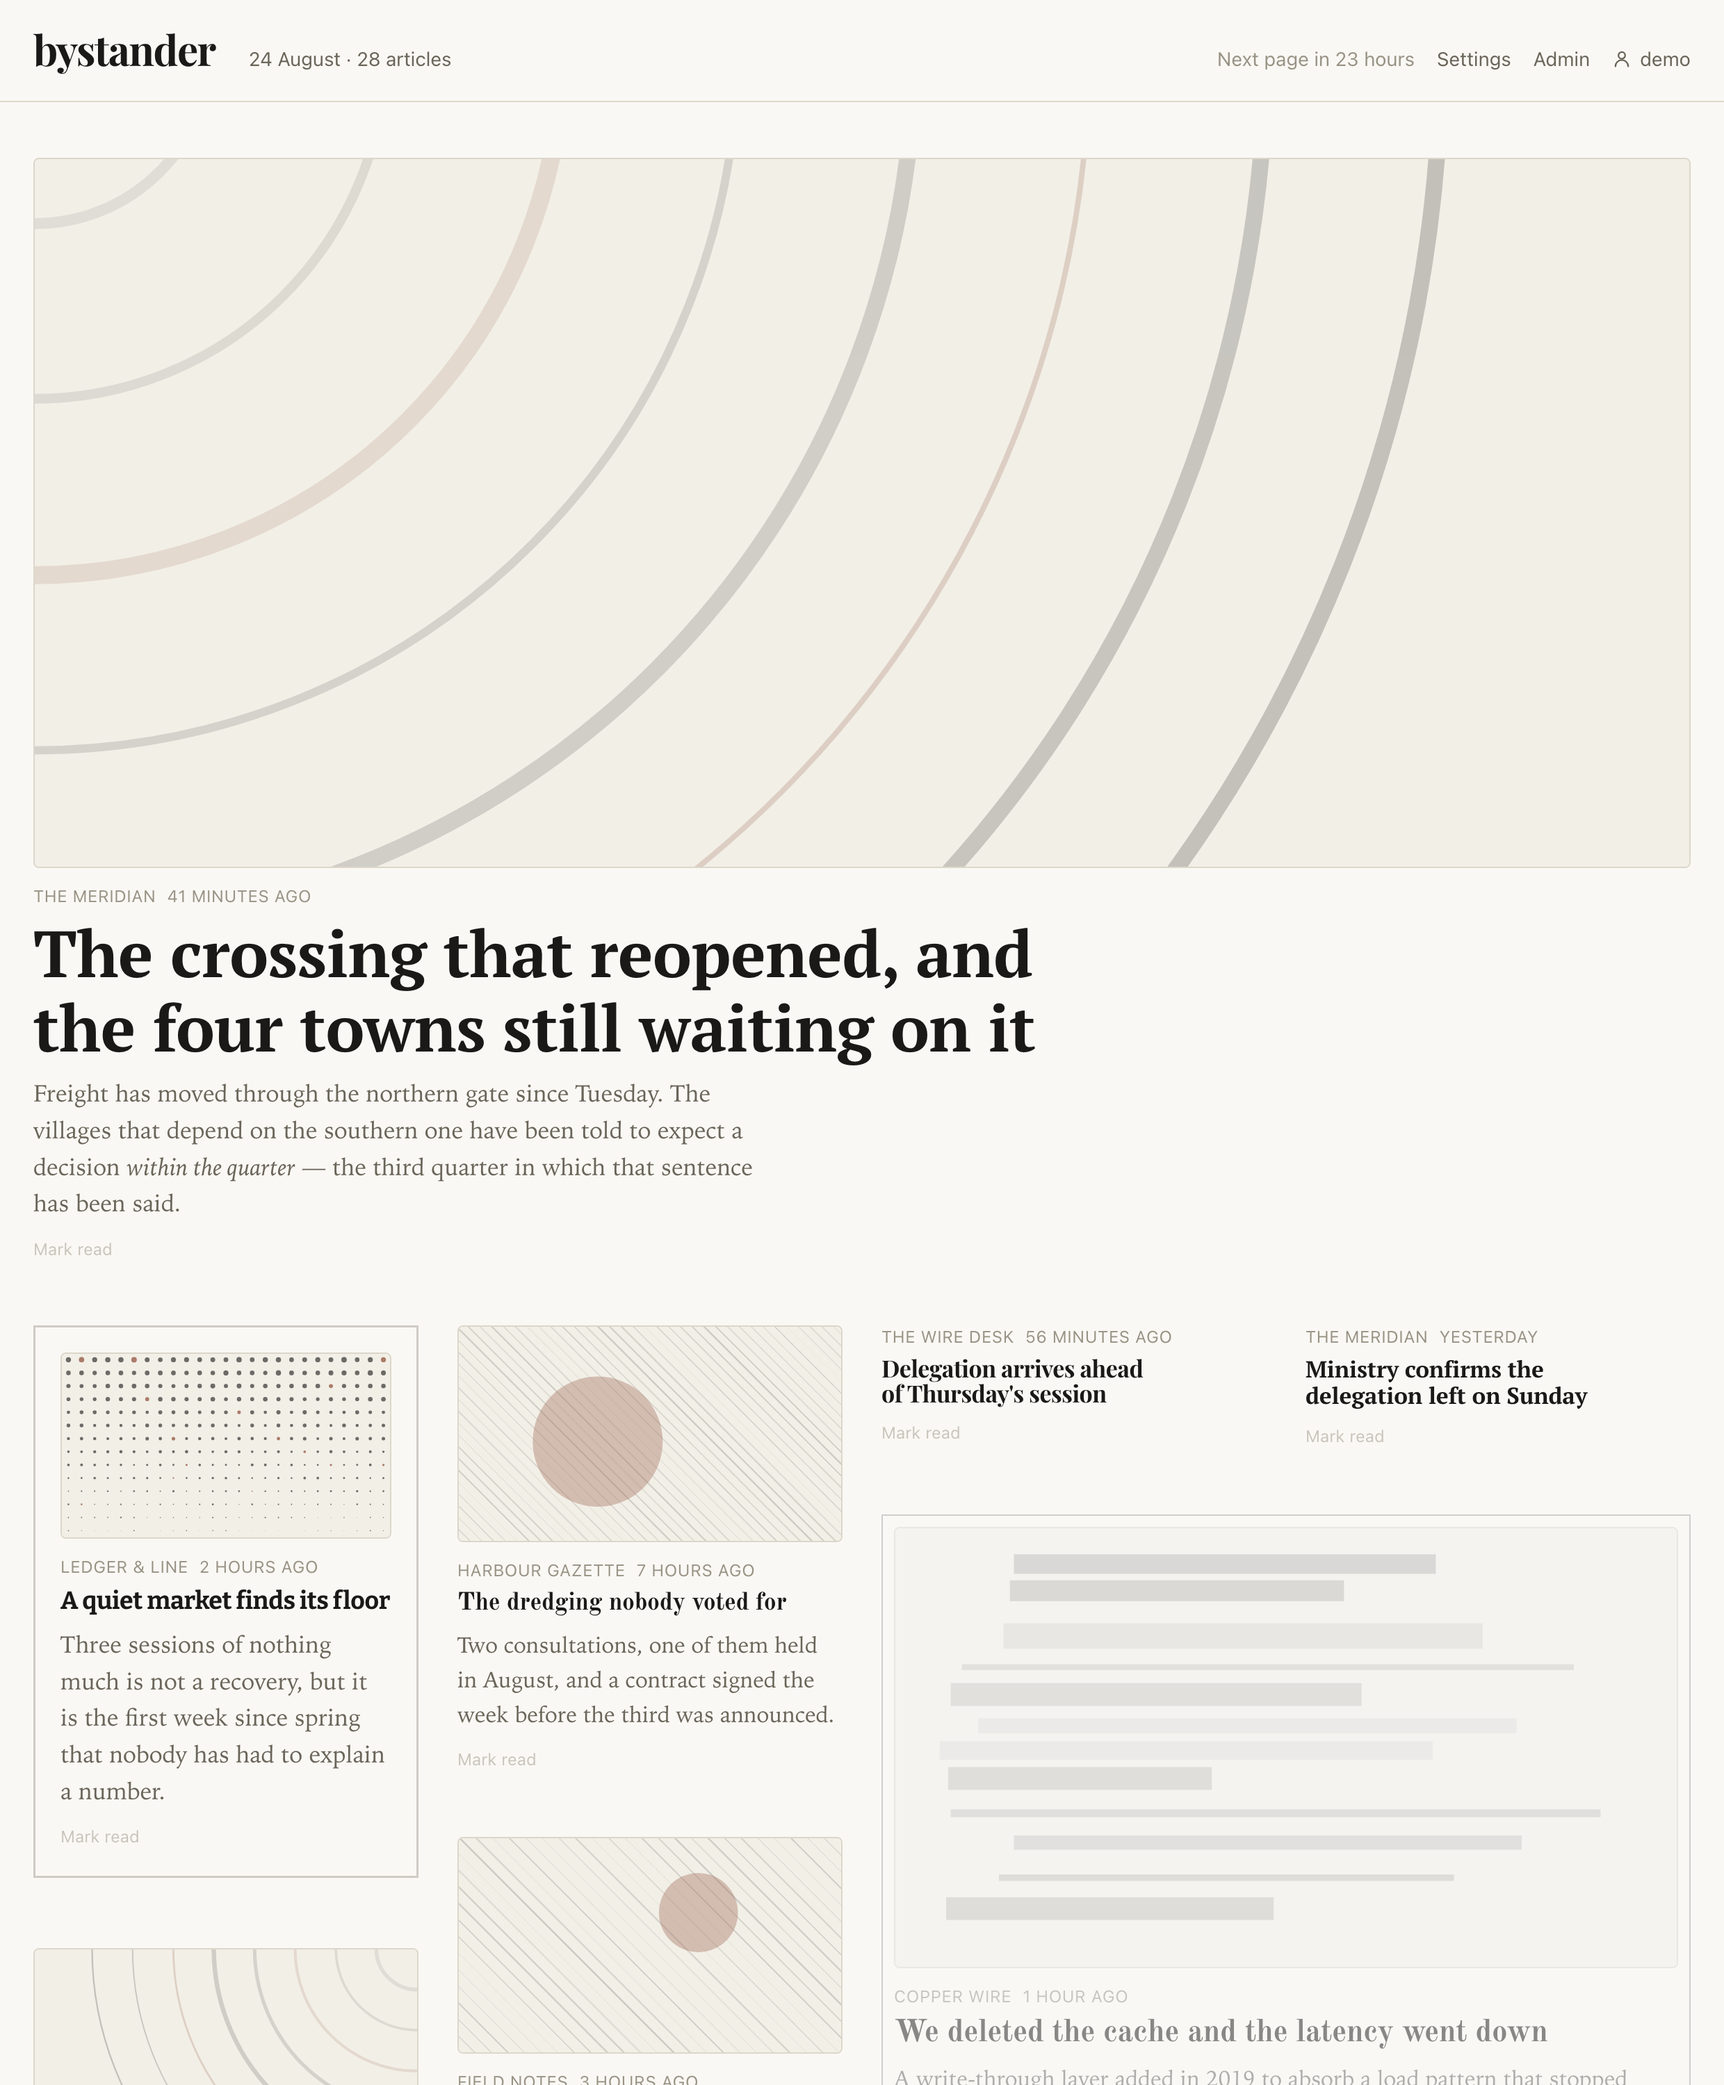
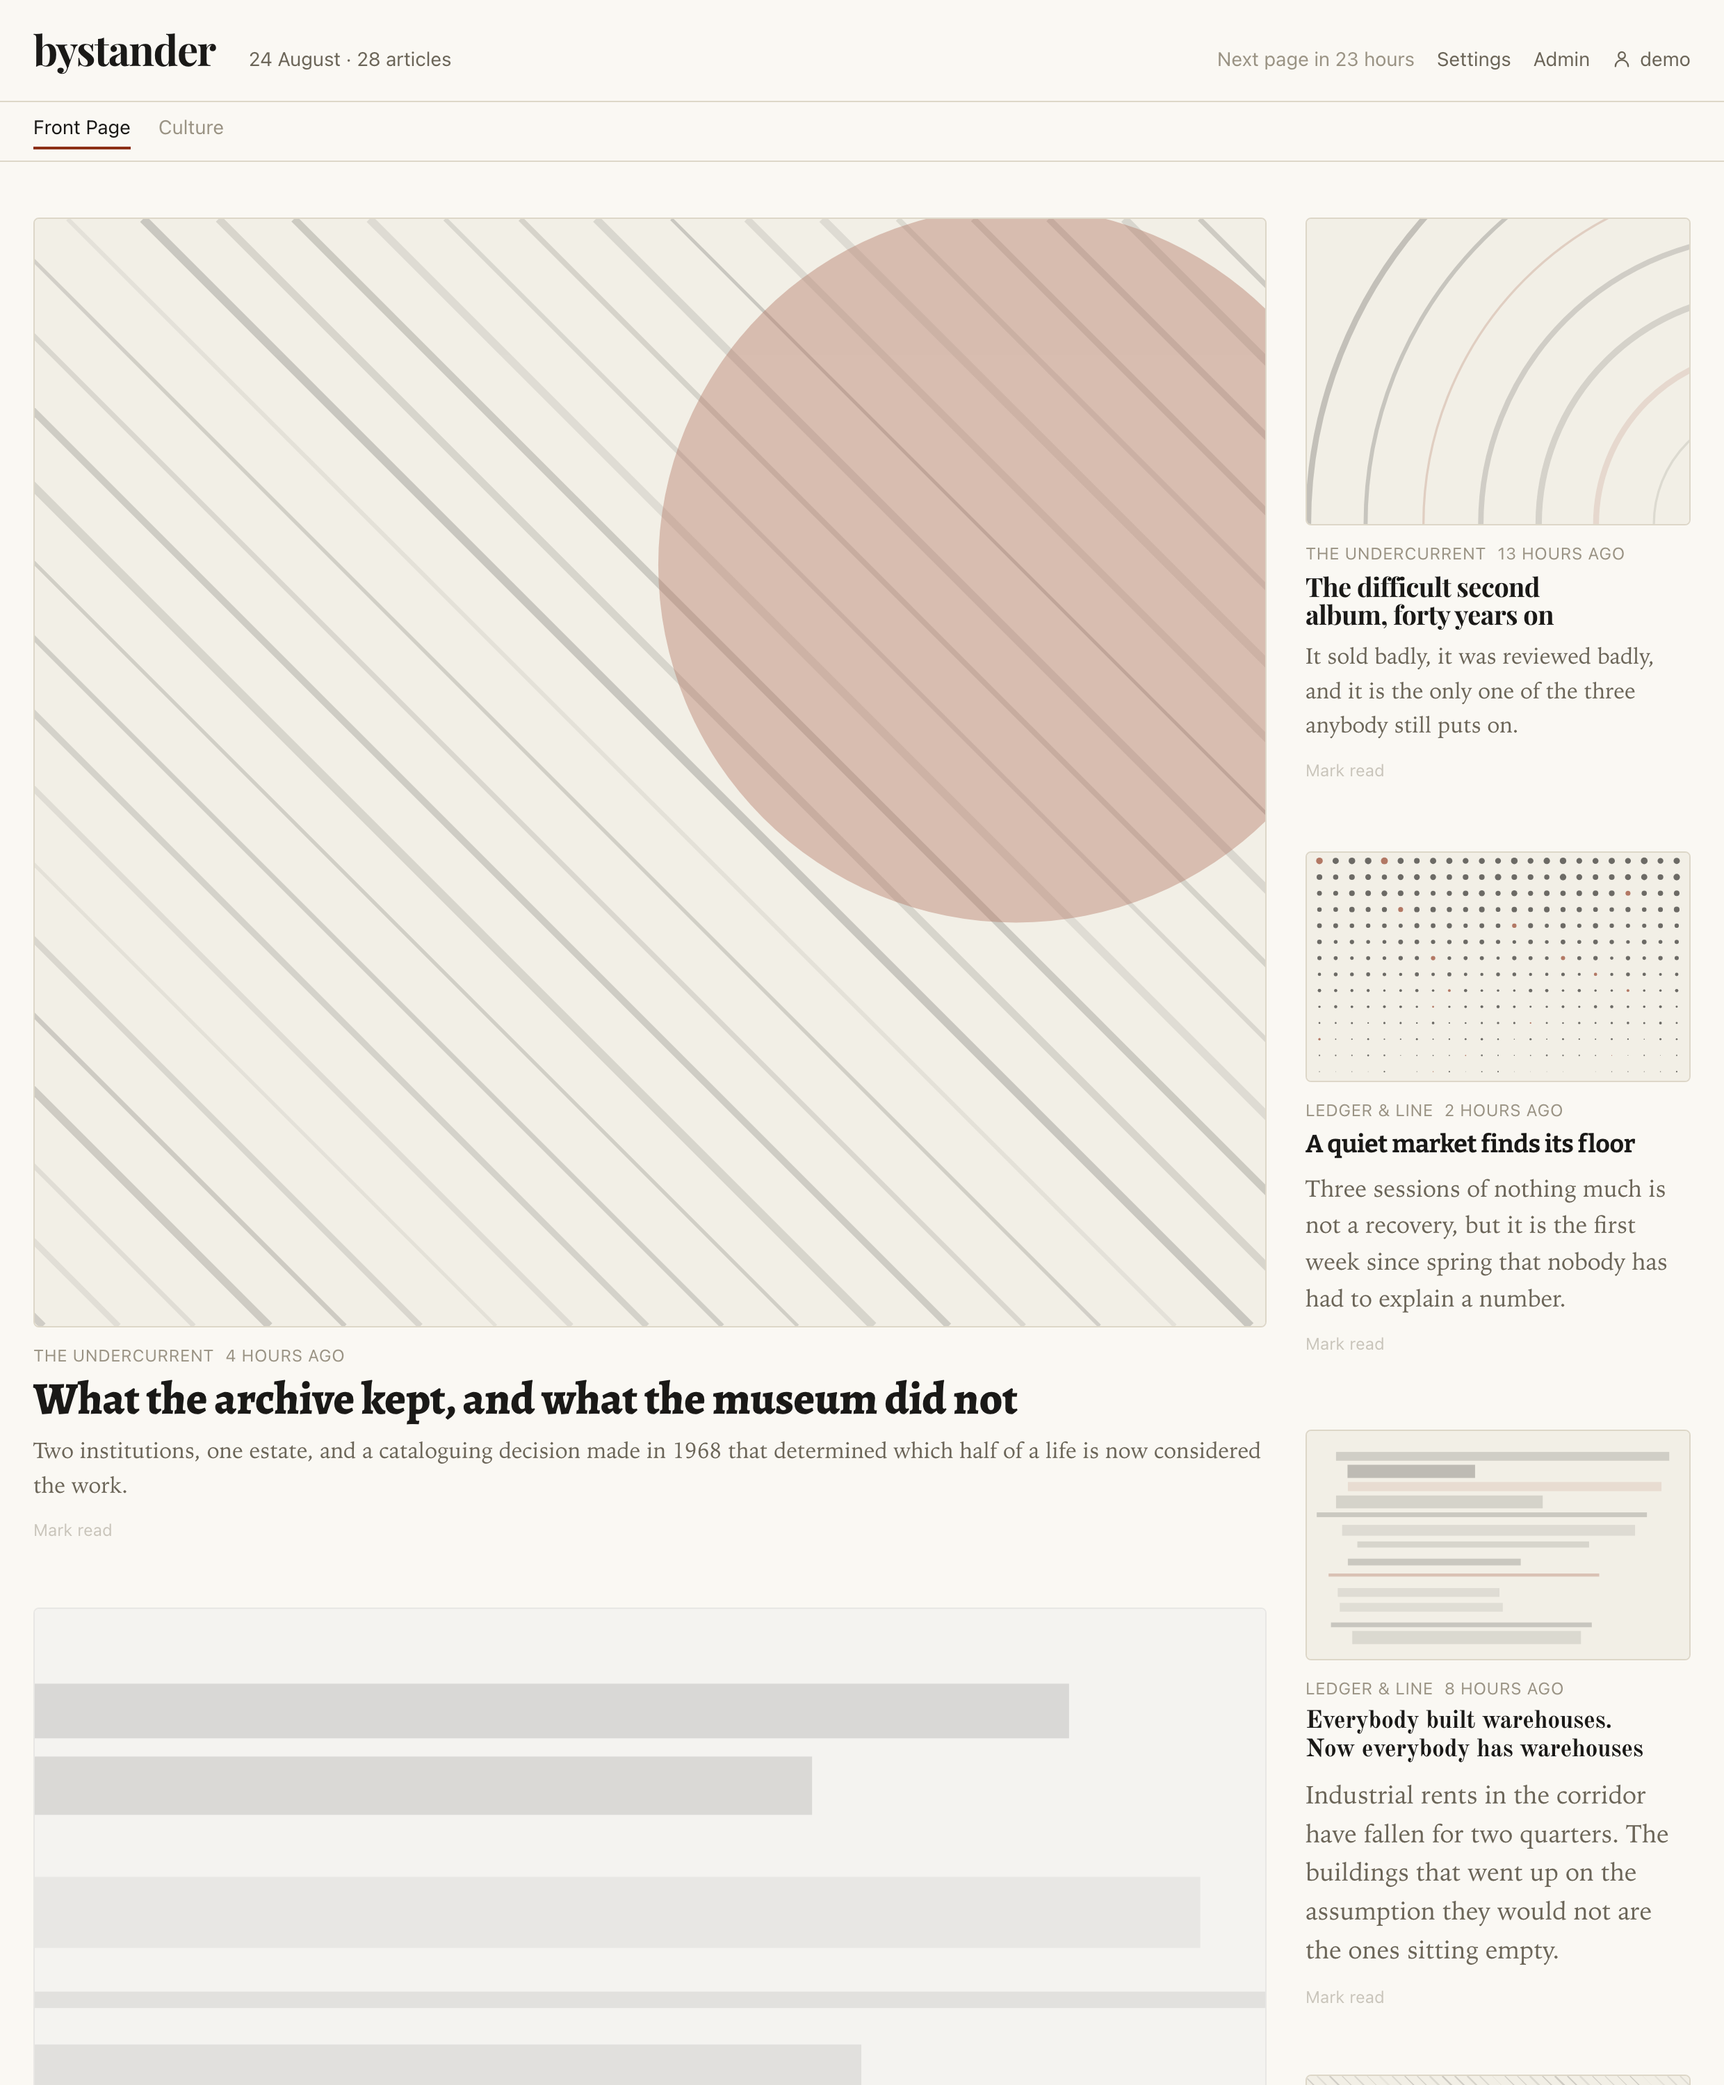
Show the front pages in the README, and capture them

diff --git a/web/src/apps/manage/PageDialog.tsx b/web/src/apps/manage/PageDialog.tsx
@@ -126,6 +126,9 @@ function Picker({
             type="checkbox"
             checked={chosen.includes(item.id)}
             onChange={() => onToggle(item.id)}
+            // Otherwise the browser draws its own blue, which is the only blue anywhere in
+            // this product and lands in the middle of a page that is otherwise ink on paper.
+            className="accent-accent"
           />
           {item.label}
         </label>

diff --git a/README.md b/README.md
@@ -6,6 +6,9 @@ It fetches your feeds on a schedule and composes a **front page** from them — 
 of articles, in fixed positions, laid out like a newspaper. When the next page is made, the
 previous one is gone for good.
 
+You can keep more than one. A daily page of everything, a finance page that turns hourly, a
+long read for the weekend — each drawing from the feeds you choose, on a schedule of its own.
+
 Nothing accumulates. Nothing is owed. A feed that publishes forty items a day contributes
 the same handful as one that publishes two.
 
@@ -20,8 +23,10 @@ are not all in one face; that is [Typography](#typography), below.
 | --- | --- |
 | [![The feeds you follow](docs/screenshots/feeds.png)](docs/screenshots/feeds.png) | [![One feed's settings](docs/screenshots/feed.png)](docs/screenshots/feed.png) |
 | The feeds you follow, and what each is worth to you | Everything about one feed, behind its name |
-| [![Front pages](docs/screenshots/settings.png)](docs/screenshots/settings.png) | [![Recently read](docs/screenshots/read.png)](docs/screenshots/read.png) |
-| How often a page turns, and how much is on it | What you have already read — the only list here |
+| [![The front pages you keep](docs/screenshots/pages.png)](docs/screenshots/pages.png) | [![What a front page draws from](docs/screenshots/page.png)](docs/screenshots/page.png) |
+| Each front page: how often it turns, how much is on it, how current it has to be | And what it is allowed to draw from |
+| [![Recently read](docs/screenshots/read.png)](docs/screenshots/read.png) | [![Signing in](docs/screenshots/login.png)](docs/screenshots/login.png) |
+| What you have already read — the only list here | The way in, which is an invitation and never a default password |
 
 Real captures of the real reader; only the publications are invented. They are regenerated
 by [`docs/screenshots/capture.sh`](docs/screenshots/), which builds the thing, runs it
@@ -112,7 +117,37 @@ Marking an article read greys it **in place**. It does not move, collapse or dis
 where an article sits is how you remember where you were, and rearranging under you would
 be the unread-count problem wearing a different hat.
 
-Read marks belong to the page they were made on. When the page goes, they go with it.
+A read mark belongs to the composition it was made on, and goes when that page turns. Reading
+is still about you rather than about the tab you were looking at, so marking an article read
+marks it on every front page it is currently on — and the month-long record below outlives all
+of them.
+
+### More than one front page
+
+The page at `/` is your **Front Page**. It cannot be removed or renamed, and until you make a
+second one there is nothing else to see.
+
+A second page is a **name, an address and a filter** — it lives at `/f/its-address`, and the
+reader grows a strip of tabs to move between them. Each carries its own answers to the three
+questions the Front Page already answered: how often it is composed, how much is on it, and how
+far back it reaches. A finance page turning hourly with fifteen articles and a day's reach is a
+different object from a Sunday page of long reads turning weekly.
+
+The filter is two controls that compose. **Tags**: any, only these, or all but these. **Feeds**:
+the same, and the second control offers only the direction the first did not — a page already
+held to a set of tags does not also need "only these feeds", because the tags already chose
+them; what is useful is dropping one. Everything is saved in one gesture, because a mode changed
+without its list is a page drawing from the wrong things — briefly, and then for a week.
+
+**Pages are views, not shares.** An article that belongs on two of them appears on both. What
+each page remembers separately is what *it* has shown, so a weekly page is not quietly emptied
+by a daily one that got there first. What you have **read** is the opposite: that is a fact
+about you and an article, so reading it on one page reads it on every page it is on.
+
+Editing a filter composes the page again straight away — it changes what the page is made of,
+and a page that says it draws from one thing while showing another is a page that looks broken
+until its next turn. Changing how often it turns does not: that describes the next composition,
+not the one you are reading.
 
 ### Typography
 
@@ -198,7 +233,7 @@ does not require an account already.
 
 ```
 /data/main.db      accounts, sessions, invitations, feeds, tags, subscriptions   back this up
-/data/derived.db   fetched articles, the live pages, what has been shown         delete it freely
+/data/derived.db   fetched articles, the live pages, what each has shown         delete it freely
 ```
 
 That asymmetry is the point of the split. Losing `derived.db` costs one fetch cycle;
@@ -212,9 +247,9 @@ moment.
 
 Articles are kept for as long as the longest window anybody set needs — a month at least,
 a year at most, since unbounded growth is not a setting anybody meant to choose. The record
-of what you have been *shown* is kept three times longer than that, so it always outlives
-the article it refers to and a long-dormant feed cannot resurface something you have already
-seen.
+of what a page has *shown* is kept three times longer than that, so it always outlives the
+article it refers to and a long-dormant feed cannot resurface something that page has already
+carried.
 
 ## What it deliberately does not do
 

diff --git a/docs/screenshots/README.md b/docs/screenshots/README.md
@@ -8,9 +8,10 @@ behind them are invented.
 | `frontpage.png` | a front page: four slots, six headline faces, two read cards |
 | `feeds.png` | the feeds somebody follows, and what each is worth to them |
 | `feed.png` | one feed's dialog: its name, its sections, how far back a page reaches |
-| `settings.png` | how often a page turns and how much is on it |
+| `pages.png` | the front pages somebody keeps, and the controls belonging to one of them |
+| `page.png` | one front page's dialog: what it is called, where it lives, what it draws from |
 | `read.png` | what has already been read, which is the only list in the product |
-| `login.png` | the sign-in screen |
+| `login.png` | the sign-in screen: an invitation, never a default password |
 
 ## Regenerating
 
@@ -19,9 +20,9 @@ docs/screenshots/capture.sh
 ```
 
 That builds the frontend and the binary, starts eight stand-in publishers and a reader
-against them, subscribes to all eight through the reader's own API, composes a page, marks
-a few articles read, drives headless Chromium over the DevTools protocol, and overwrites
-the PNGs here. Everything it starts is stopped again on the way out, including on failure.
+against them, subscribes to all eight through the reader's own API, makes a second front page
+filtered to one section, composes both, marks a few articles read, drives headless Chromium
+over the DevTools protocol, and overwrites the PNGs here. Everything it starts is stopped again on the way out, including on failure.
 
 Needs `go`, `node`, and Chromium or Chrome. No Docker, no npm packages beyond the
 frontend's own, and no Playwright — Chromium has a headless mode and Node has a WebSocket
@@ -48,6 +49,11 @@ set: `THEME=dark OUT=/tmp/shots docs/screenshots/capture.sh`.
 four columns to three, and again at 820 to two — and a set of screenshots in which the
 front page is two columns wide sells the whole idea short, because the layout *is* the
 product.
+
+The second front page is not decoration. Without it the reader shows no tab strip at all —
+one page is not a set of tabs — so a capture with a single page would quietly photograph the
+feature as though it did not exist. `capture.sh` fails rather than continuing if that page
+composes nothing.
 
 The front page is the one shot taken at a fixed height rather than fitted to its content.
 Twenty-eight articles is several thousand pixels of page; captured whole it becomes a
@@ -89,9 +95,12 @@ on a newspaper page does.
 - `fitHeight` shrinks the viewport *before* measuring, because a shell with a minimum
   height never reports a `scrollHeight` below the current viewport — measure at the height
   you are already at and you get that height back, padded with blank paper.
-- `fitDialogHeight` measures the dialog's children rather than its `scrollHeight`. Once the
-  viewport is tall enough the content stops overflowing and `scrollHeight` collapses to the
-  viewport height.
+- `fitDialogHeight` measures the `<dialog>` itself and divides by `0.85`, because that is
+  what its `max-h-[85dvh]` means: to show content of a given height whole, the viewport has
+  to be taller than it by that factor. It used to look for the first descendant that scrolls
+  and measure to the bottom of *its* children, which worked only while the sole such element
+  was the last thing in the dialog — the page dialog has a tag picker capped at twelve rem in
+  the middle of it, and everything below that, Save included, was cut off.
 - Selectors are passed into the page as variables, never interpolated into a string. One
   containing a double quote turns the whole expression into a parse error, which surfaces
   as an immediate failure rather than a timeout.
